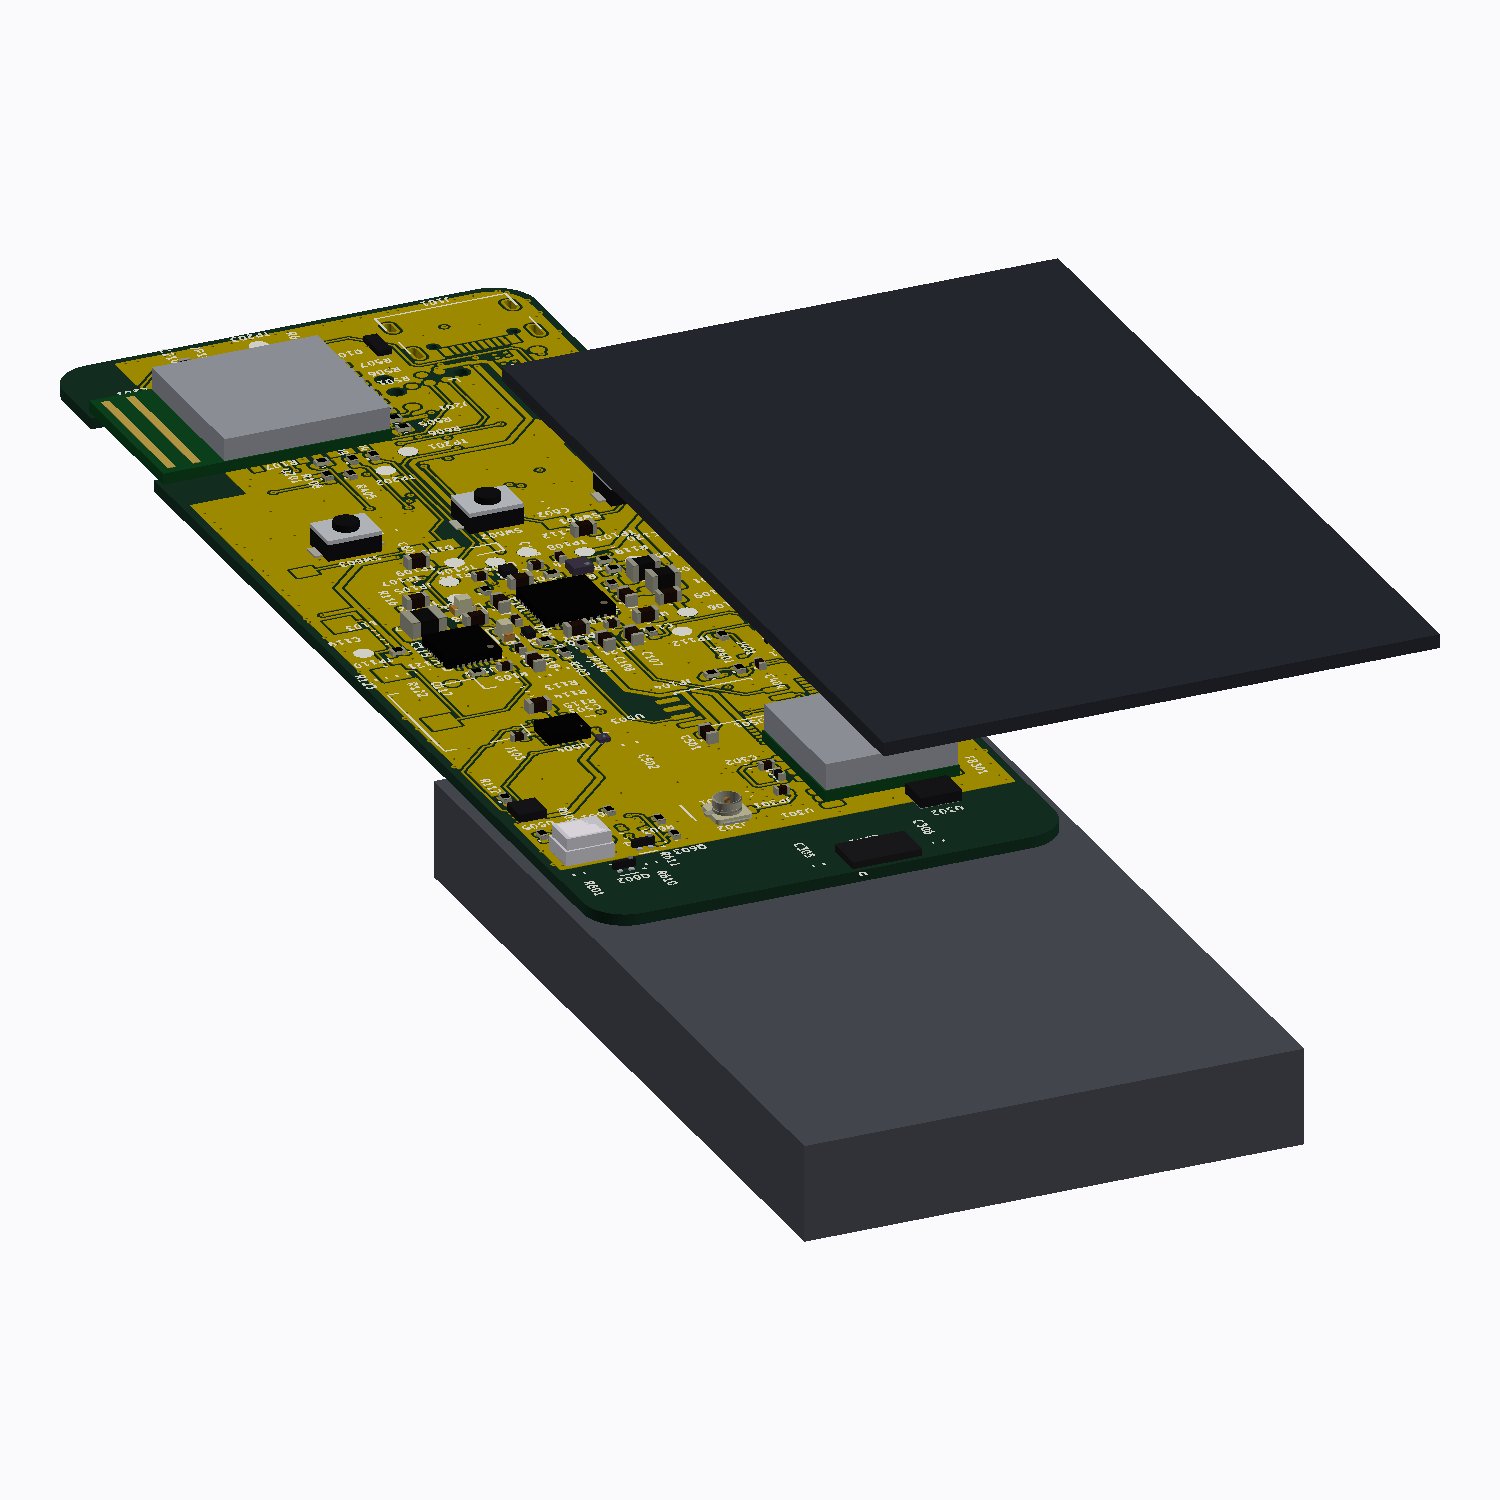
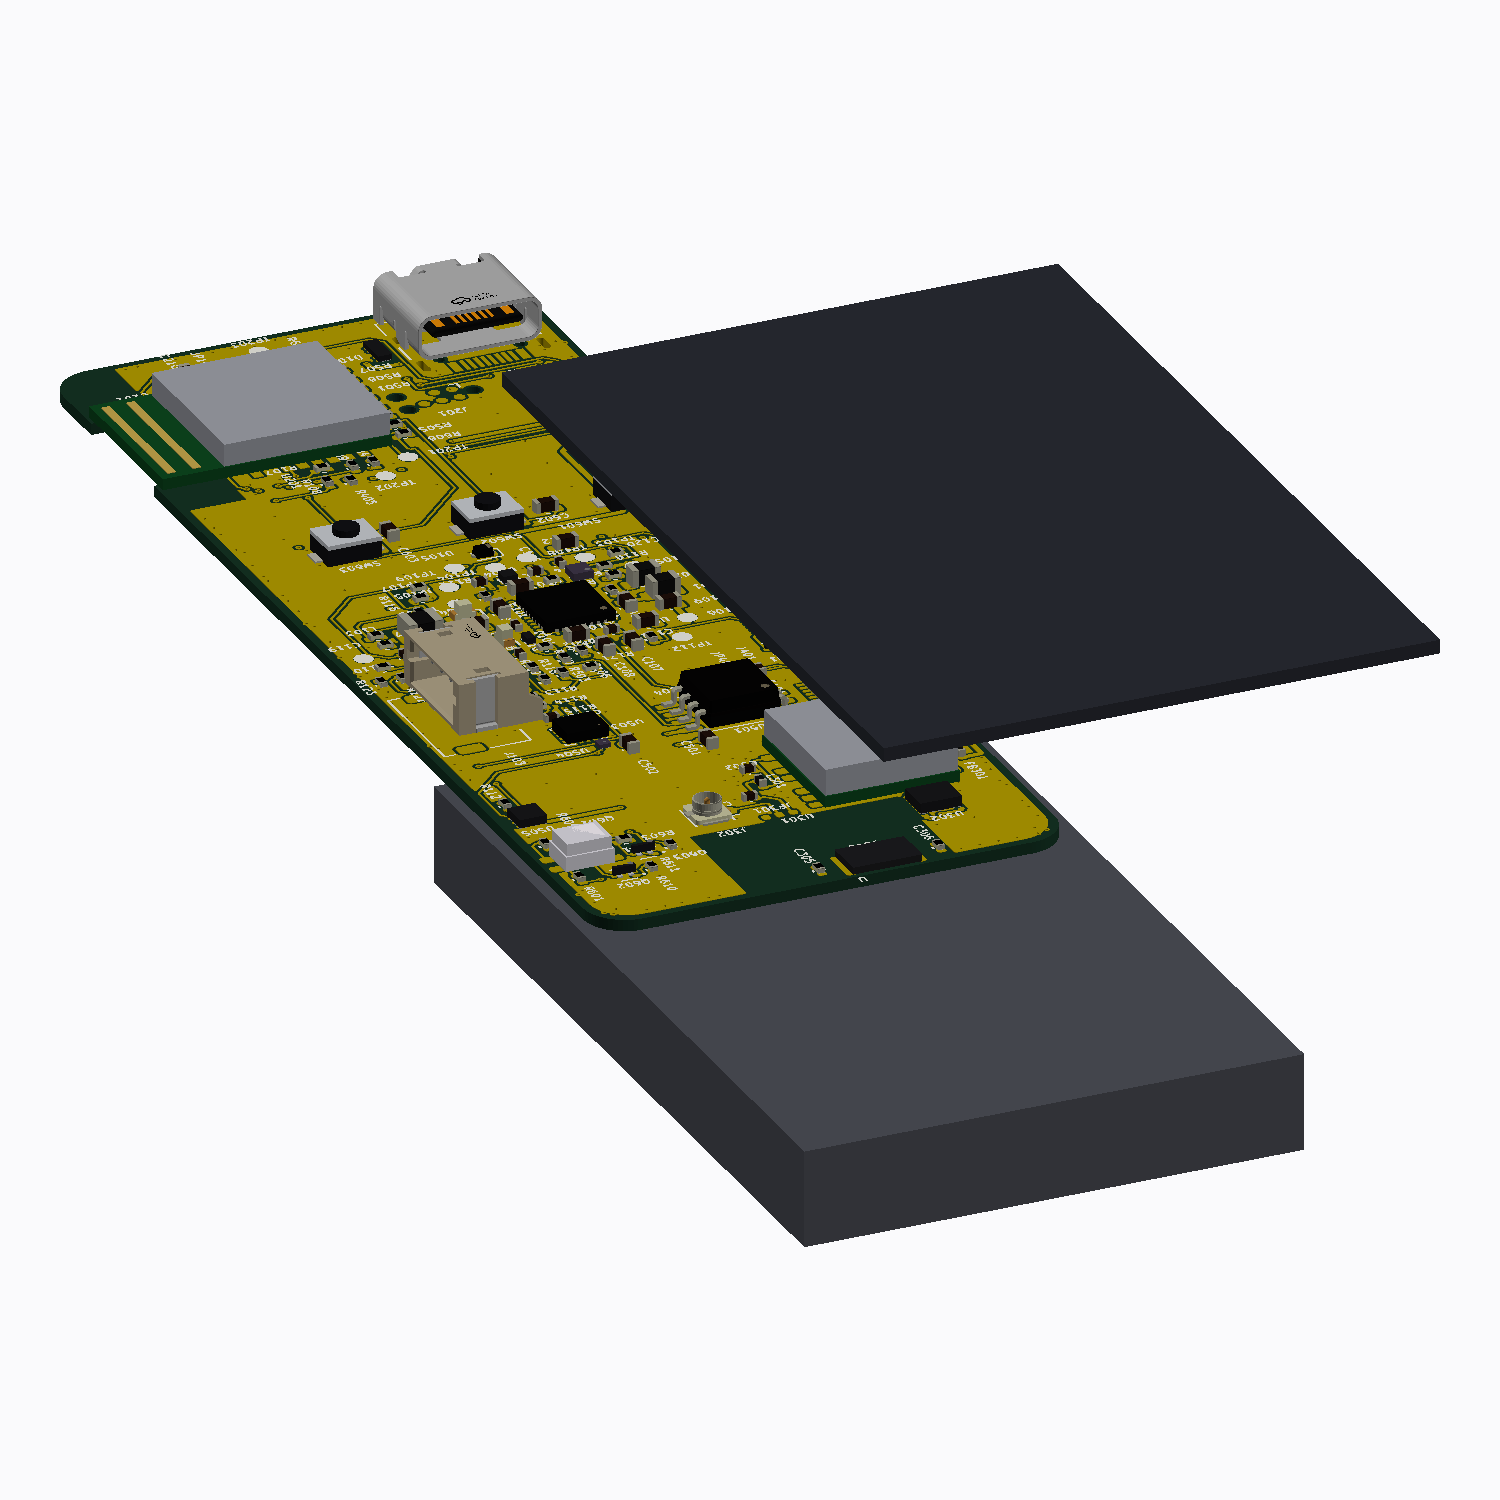
fix(hardware): the 3D was drawn from a board seven hours old
The owner looked at the renders and said the parts' pads did not seem to
sit on the solder lands, and that things looked rotated. He was right,
and the cause was not the footprints.

The 3D drawing is made of two halves: the board and KiCad's own component
models come from a GLB exported by kicad-cli, and the bodies this project
draws itself are added on top, read from the .kicad_pcb. Nothing checked
that the two halves were the same version of the board.

They were not. gnssbike.glb was from 09-24 18:58 and the board had last
been written at 09-25 01:48 - seven hours and, in between, the GNSS
antenna moved onto the board, the receiver and the whole matching network
shifted, the harvester changed part and footprint, the display connector
changed, and the router's edge margin moved things again. So the picture
showed the old board with the new bodies on it, and a part that had moved
came out with its body beside its pads.

The footprints themselves were checked and are correct: every pad sits
inside its own body outline except in four places where it is supposed to
- the RGB LED, the SOIC, the FPC and the LCC module all have land
patterns wider than their bodies - and every 3D body matches its
footprint's F.Fab in size AND orientation, so nothing was swapped or
turned.

make_3d.py now exports the GLB itself whenever the one on disk is older
than the board, and refuses to draw from stale input at all. The
[…]

diff --git a/hardware_gnssbike/cad/make_3d.py b/hardware_gnssbike/cad/make_3d.py
@@ -484,10 +484,43 @@ def caixas_das_pecas() -> tuple[np.ndarray, np.ndarray]:
     return np.array(tris), np.array(cols)
 
 
-def main() -> int:
+def _glb_atual() -> pathlib.Path | None:
+    """O GLB da placa, exportado do KiCad, e sempre o da placa de AGORA.
+
+    Este desenho e feito de duas metades: a placa e os modelos do KiCad vem
+    do GLB, e os corpos que este projeto desenha sao acrescentados por cima,
+    lidos do `.kicad_pcb`. Se o GLB for de uma versao anterior da placa, as
+    duas metades ficam de versoes diferentes - a placa de antes com os corpos
+    de agora -, e o resultado parece uma peca torta, com o pad fora da ilha.
+    Foi exatamente o que aconteceu: um GLB de sete horas antes, com todas as
+    pecas que se moveram no intervalo, e ninguem avisou.
+
+    Entao aqui nao se confia: se o GLB nao existe ou e mais velho que a
+    placa, ele e refeito. Nunca se desenha a partir de entrada velha.
+    """
+    import subprocess
+
     glb = HERE / "gnssbike.glb"
-    if not glb.exists():
-        print("gnssbike.glb nao existe: rode o kicad-cli pcb export glb antes")
+    pcb = HERE / "gnssbike.kicad_pcb"
+    if not pcb.exists():
+        print("gnssbike.kicad_pcb nao existe: rode o make_pcb.py antes")
+        return None
+    if glb.exists() and glb.stat().st_mtime >= pcb.stat().st_mtime:
+        return glb
+    print("exportando o GLB da placa (o que havia era mais velho que ela)...")
+    r = subprocess.run(
+        [str(KICAD_CLI), "pcb", "export", "glb", "--subst-models",
+         "--include-tracks", "--include-zones", "-o", str(glb), str(pcb)],
+        capture_output=True, text=True)
+    if r.returncode != 0 or not glb.exists():
+        print("o kicad-cli nao exportou o GLB:", r.stderr.strip()[:200])
+        return None
+    return glb
+
+
+def main() -> int:
+    glb = _glb_atual()
+    if glb is None:
         return 1
     j, bina = ler_glb(glb)
     tris, cols = triangulos(j, bina)
